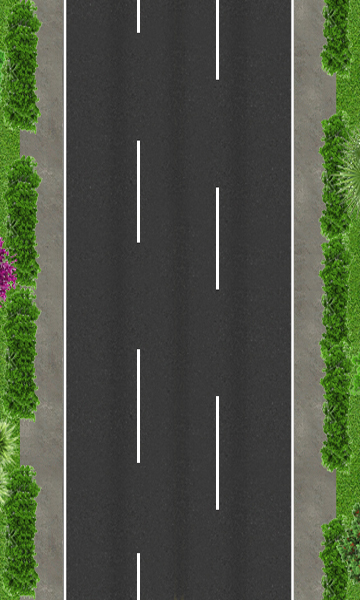
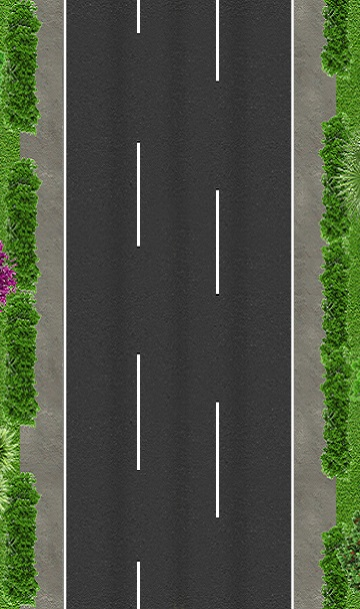
fix message

diff --git a/GamePlay.py b/GamePlay.py
@@ -47,6 +47,7 @@ class cGamePlay:
         # init Background
         self.bggrass = pygame.image.load(".\\img\\grass.jpg")
         self.bgImg = pygame.image.load(".\\img\\back_ground.jpg")
+        self.bgracing = pygame.image.load(".\\img\\bgracing.jpg")
         self.bg_x1 = (self.display_width / 2) - (360 / 2)
         self.bg_x2 = (self.display_width / 2) - (360 / 2)
         self.bg_y1 = 0
@@ -76,10 +77,12 @@ class cGamePlay:
         except:  # save the score
             with open('score.dat', 'wb') as file:
                 pickle.dump(score, file)
+            temp = 0
         if temp < score:
             temp = score
             with open('score.dat', 'wb') as file:
                 pickle.dump(temp, file)
+
         return temp
 
     def fcrashed(self):
@@ -89,9 +92,19 @@ class cGamePlay:
         pygame.mixer.Sound.play(self.csound)
         self.gameDisplay.fill(self.yellow)
         largeText = pygame.font.SysFont("comicsansms", 115)
+        nomarlText = pygame.font.SysFont("comicsansms", 40)
         TextSurf, TextRect = self.text_objects("You Crashed", largeText)
-        TextRect.center = ((self.display_width/2), (self.display_height/2))
+        TextRect.center = ((self.display_width/2), (self.display_height/4))
+        TextSurf1, TextRect1 = self.text_objects(
+            "Your score: " + str(self.count), nomarlText)
+        TextRect1.center = ((self.display_width/2), (self.display_height/2.5))
+        TextSurf2, TextRect2 = self.text_objects(
+            "Best score: " + str(self.topscore(self.count)), nomarlText)
+        TextRect2.center = ((self.display_width/2), (self.display_height/2))
+
         self.gameDisplay.blit(TextSurf, TextRect)
+        self.gameDisplay.blit(TextSurf1, TextRect1)
+        self.gameDisplay.blit(TextSurf2, TextRect2)
 
         while True:
             for event in pygame.event.get():
@@ -217,10 +230,10 @@ class cGamePlay:
                     print("x: {x}, y: {y}".format(
                         x=self.car.getX(), y=self.car.getX()))
 
-            # self.gameDisplay.fill(self.black)
+            self.gameDisplay.blit(self.bgracing, (0, 0))
             self.back_ground_raod()
 
-            self.run_enemy_car(self.enemycar.getX(), self.enemycar.getY())
+            self.draw_enemy_car(self.enemycar.getX(), self.enemycar.getY())
             self.enemycar.setY(self.enemycar.getY() + self.enemycar.getSpeed())
 
             if self.enemycar.getY() > self.display_height:
@@ -248,20 +261,20 @@ class cGamePlay:
             pygame.display.update()
             self.clock.tick(60)
 
-    def display_message(self, msg):
-        font = pygame.font.SysFont("comicsansms", 72, True)
-        text = font.render(msg, True, (255, 255, 255))
-        self.gameDisplay.blit(
-            text, (400 - text.get_width() // 2, 240 - text.get_height() // 2))
-        self.display_credit()
-        pygame.display.update()
-        self.clock.tick(60)
-        sleep(1)
+    # def display_message(self, msg):
+    #     font = pygame.font.SysFont("comicsansms", 72, True)
+    #     text = font.render(msg, True, (255, 255, 255))
+    #     self.gameDisplay.blit(
+    #         text, (400 - text.get_width() // 2, 240 - text.get_height() // 2))
+    #     self.display_credit()
+    #     pygame.display.update()
+    #     self.clock.tick(60)
+    #     sleep(1)
         # car_racing.initialize()
         # car_racing.game_intro()
 
     def back_ground_raod(self):
-        self.gameDisplay.blit(self.bggrass, (0, 0))
+
         self.gameDisplay.blit(self.bgImg, (self.bg_x1, self.bg_y1))
         self.gameDisplay.blit(self.bgImg, (self.bg_x2, self.bg_y2))
 
@@ -274,18 +287,18 @@ class cGamePlay:
         if self.bg_y2 >= self.display_height:
             self.bg_y2 = -600
 
-    def run_enemy_car(self, thingx, thingy):
+    def draw_enemy_car(self, thingx, thingy):
         self.gameDisplay.blit(self.enemycar.getImg(), (thingx, thingy))
 
     def highscore(self, count):
         font = pygame.font.SysFont("arial", 20)
-        text = font.render("Score : " + str(count), True, self.black)
-        self.gameDisplay.blit(text, (0, 0))
+        text = font.render("Score : " + str(count), True, self.white)
+        self.gameDisplay.blit(text, (5, 0))
 
     def texttopscore(self, score):
         font = pygame.font.SysFont("arial", 30)
-        text = font.render("Top score : " + str(score), True, self.black)
-        self.gameDisplay.blit(text, (0, 20))
+        text = font.render("Top score : " + str(score), True, self.white)
+        self.gameDisplay.blit(text, (5, 20))
 
 
 car_racing = cGamePlay()
